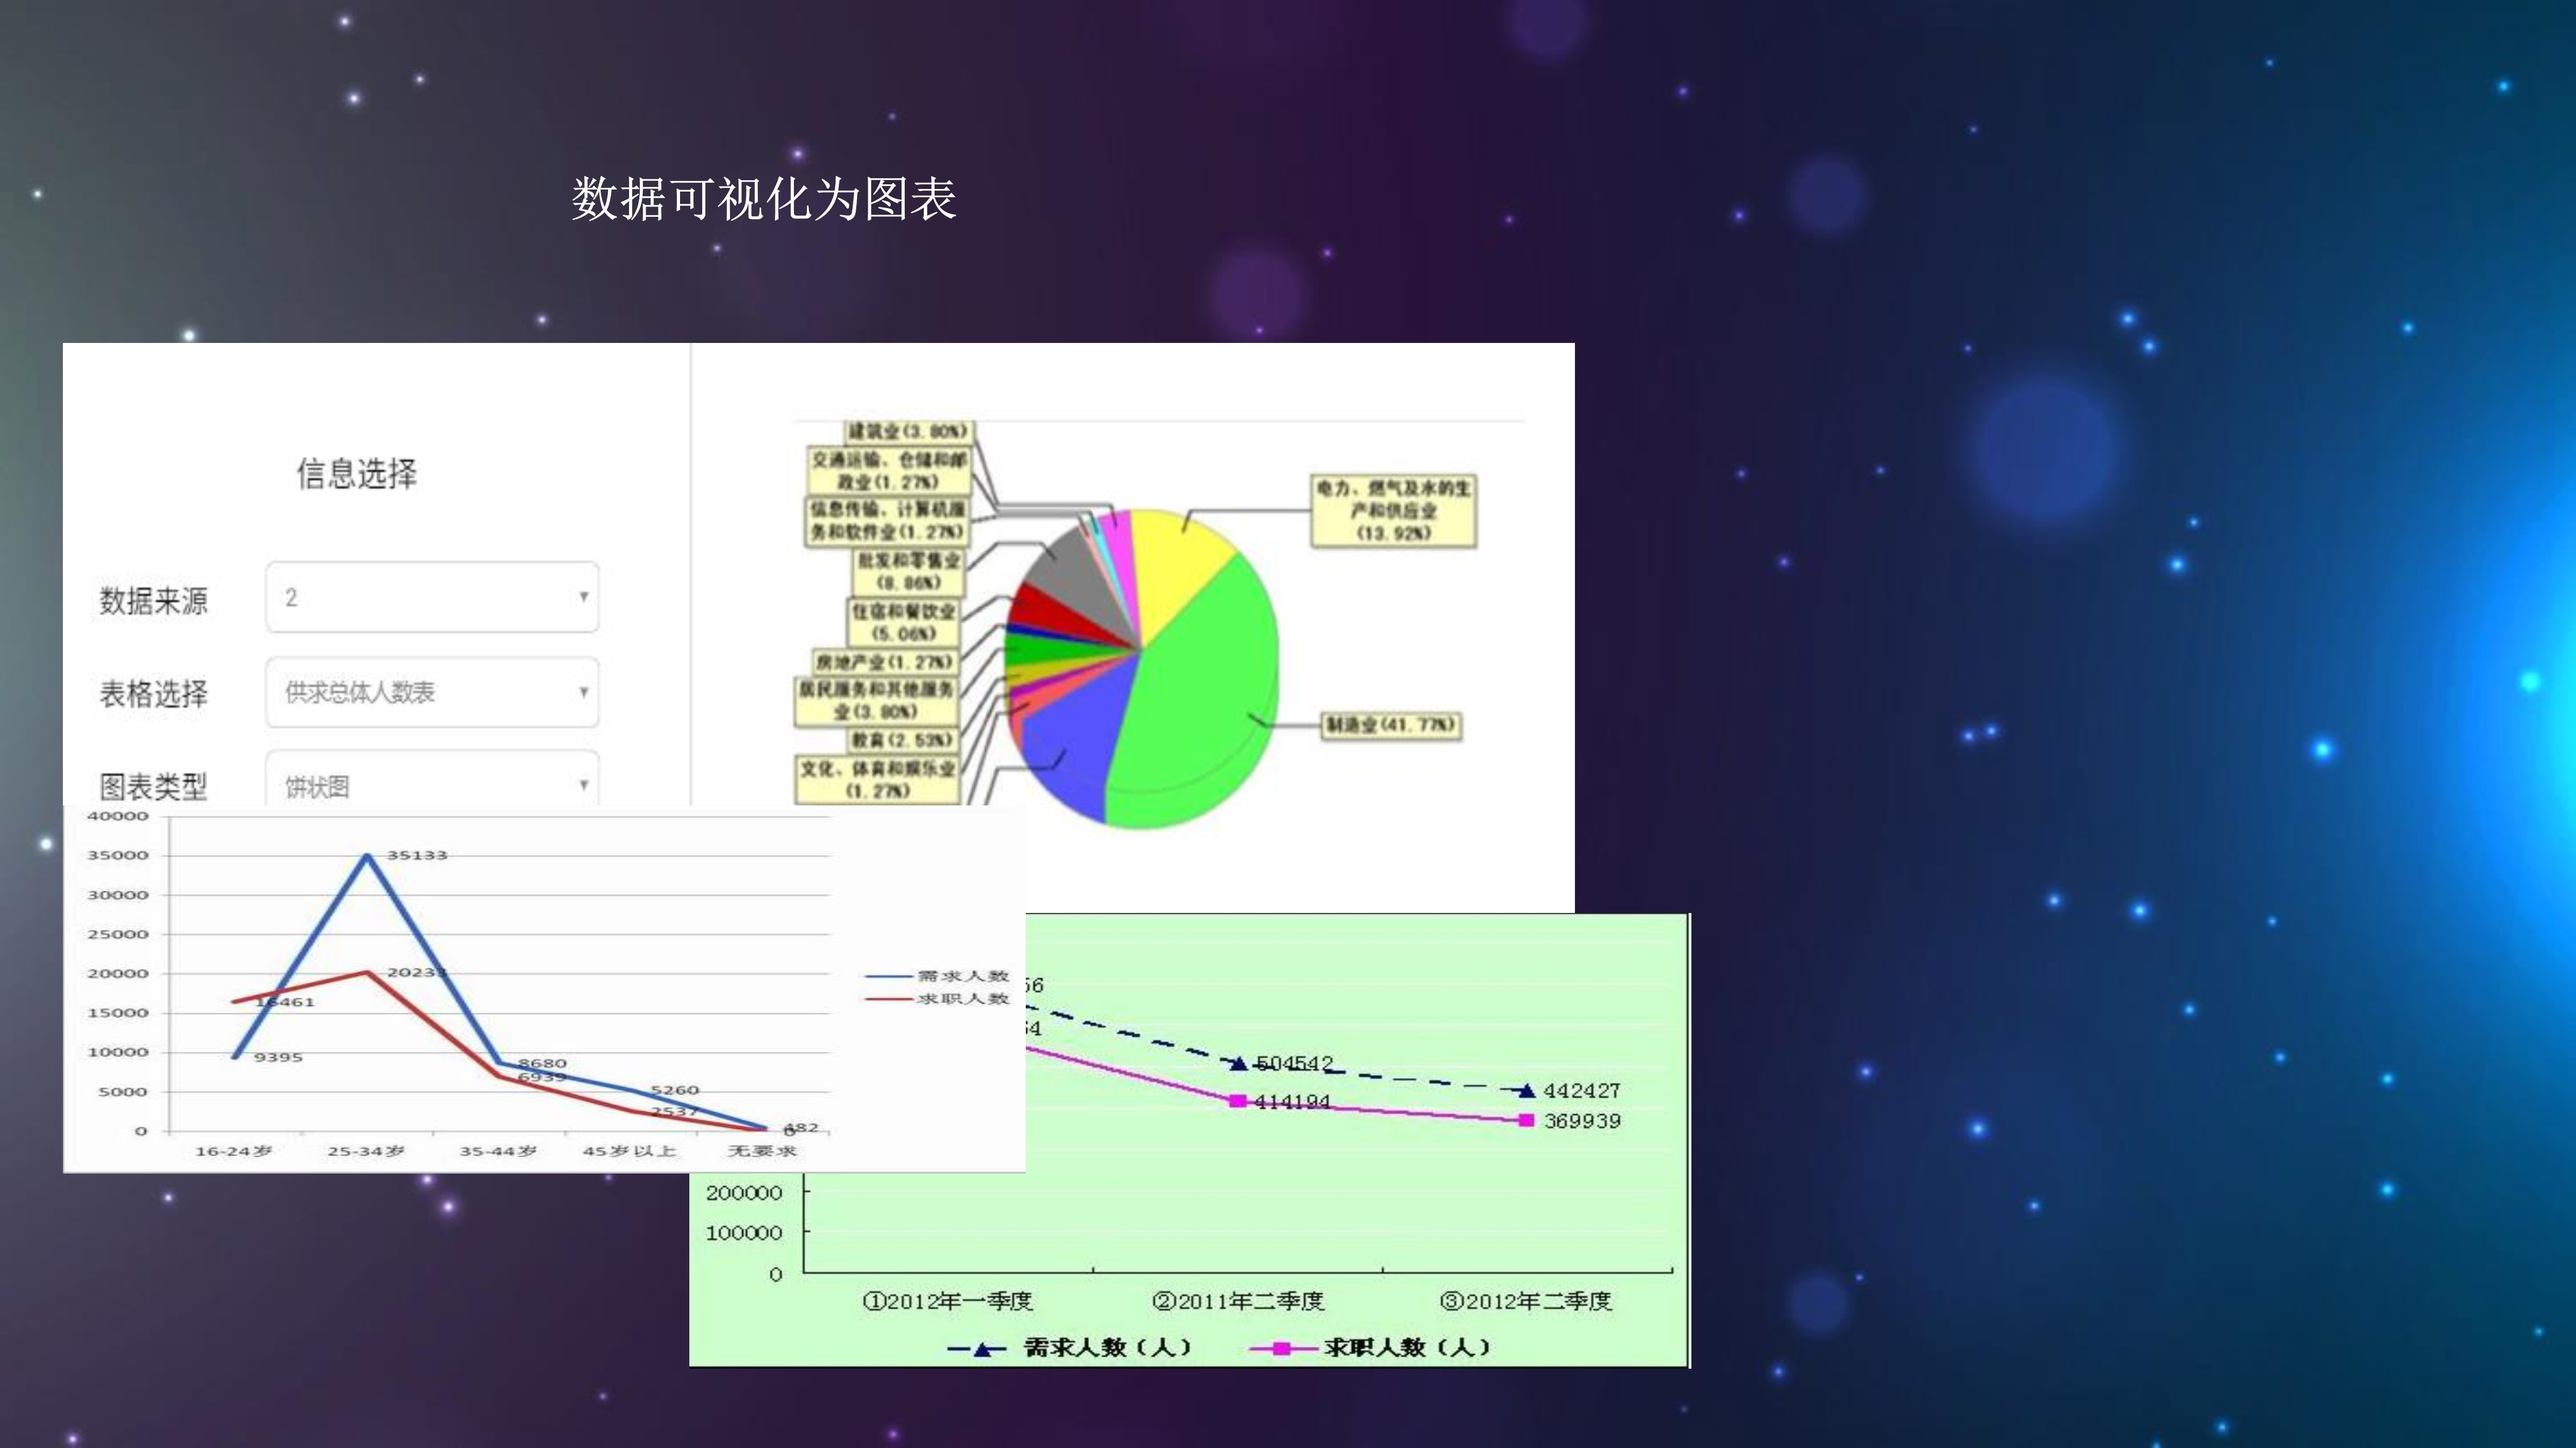
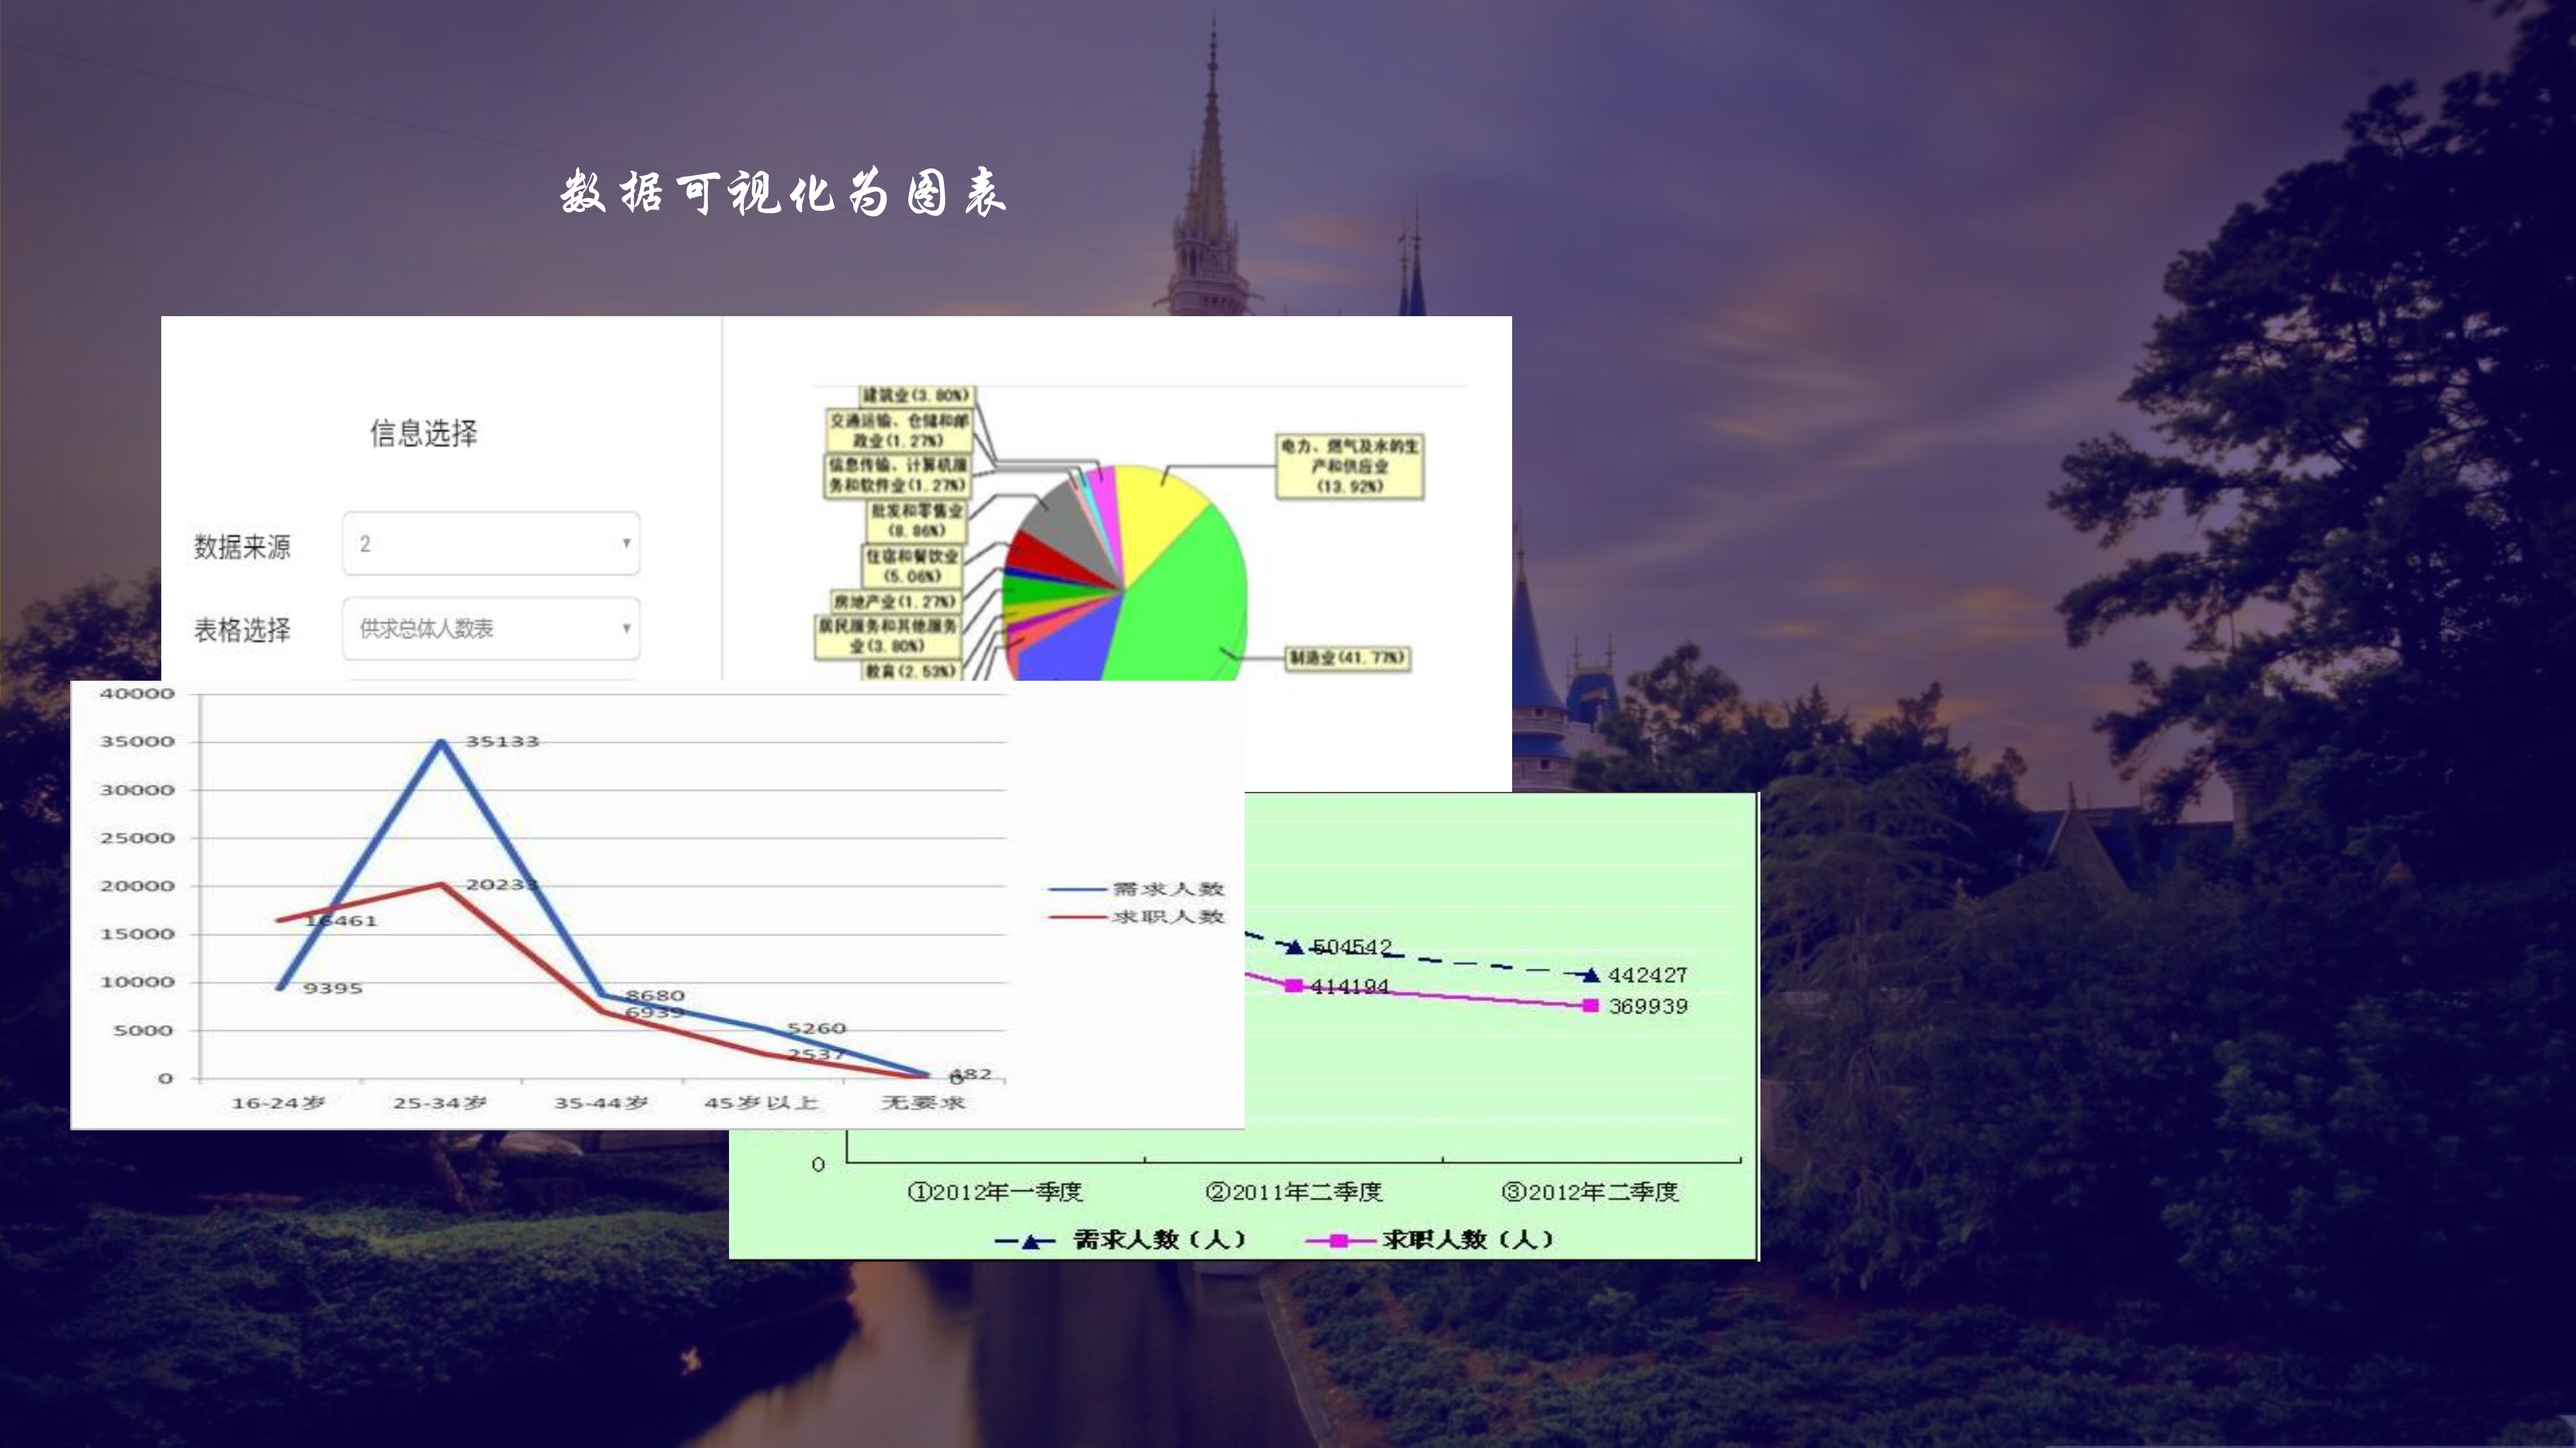
更新主页图片，调整自适应

diff --git a/src/main/resources/static/css/index.css b/src/main/resources/static/css/index.css
@@ -1,4 +1,9 @@
-body{
+html,body{
+    overflow: hidden;
+    width: 100%;
+    height:100%;
+    margin:0;
+    padding: 0;
 }
 
 #pics{
@@ -21,15 +26,15 @@ body{
 
 #login{
     position: fixed;
-    width: 400px;
+    width: 350px;
     height: 250px;
     z-index: 1000;
     padding: 15px;
     background-color: rgba(253, 255, 255, 0.54);
     /*border-radius: 15px;*/
     color: #3d4e64;
-    top: 20%;
-    right: 40px;
+    top: 25%;
+    right: 70px;
 }
 
 #login .formtitle{
@@ -40,4 +45,8 @@ body{
 #login .formitem{
     margin-top: 20px;
     font-size: 15px;
+}
+
+#login .el-input{
+    width: 90%;
 }
